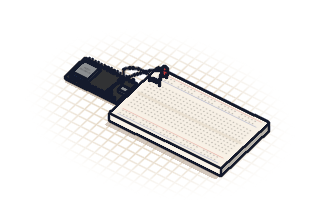
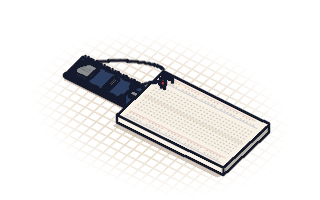
M11 WIP: rendered canvas starter thumbnails

Changed region(s): [[0.1875, 0.27, 0.8438, 0.9]]

diff --git a/PROGRESS.md b/PROGRESS.md
@@ -180,3 +180,6 @@ Scope (approved): 1 AI tutor · 2 editor AI help · 3 in-browser ML camera · 4 
 - Fixed: share links hung page boot (Blob-stream pipe stalls while the page is loading) — `pipe()` now writes and reads concurrently.
 - Fixed: `importJSON` is now undoable (pushes history), same as file import.
 - Suite covers ESP32/Pi blink, button, buzzer, servo, LCD/OLED/relay, MicroPython pot ADC, error line numbers (C++/MicroPython/Python), generate-from-wiring, keys/undo/redo/flyouts/tabs, share/autosave/My saves/JSON roundtrips, broken link, multi-board, mobile light+dark, desktop dark, 0 console errors.
+
+### M11 WIP — real starter thumbnails
+- `_tools/cv-thumbs.mjs` renders /canvas/thumbs/<starter>.png from the live starters (same framing as the sandbox thumbs).
